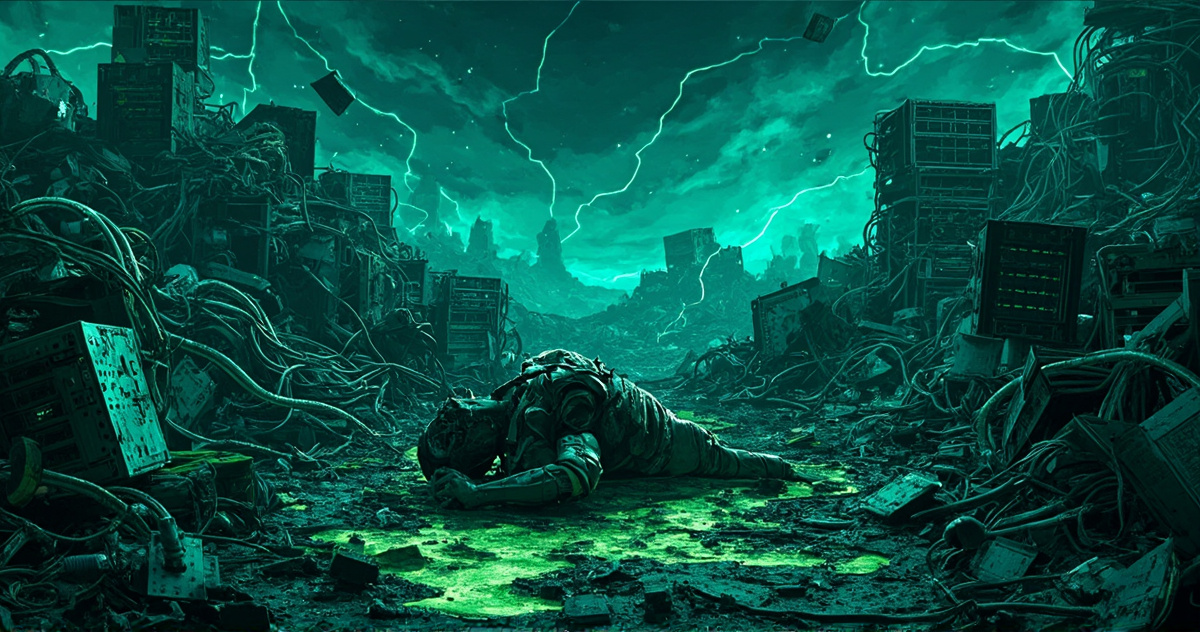
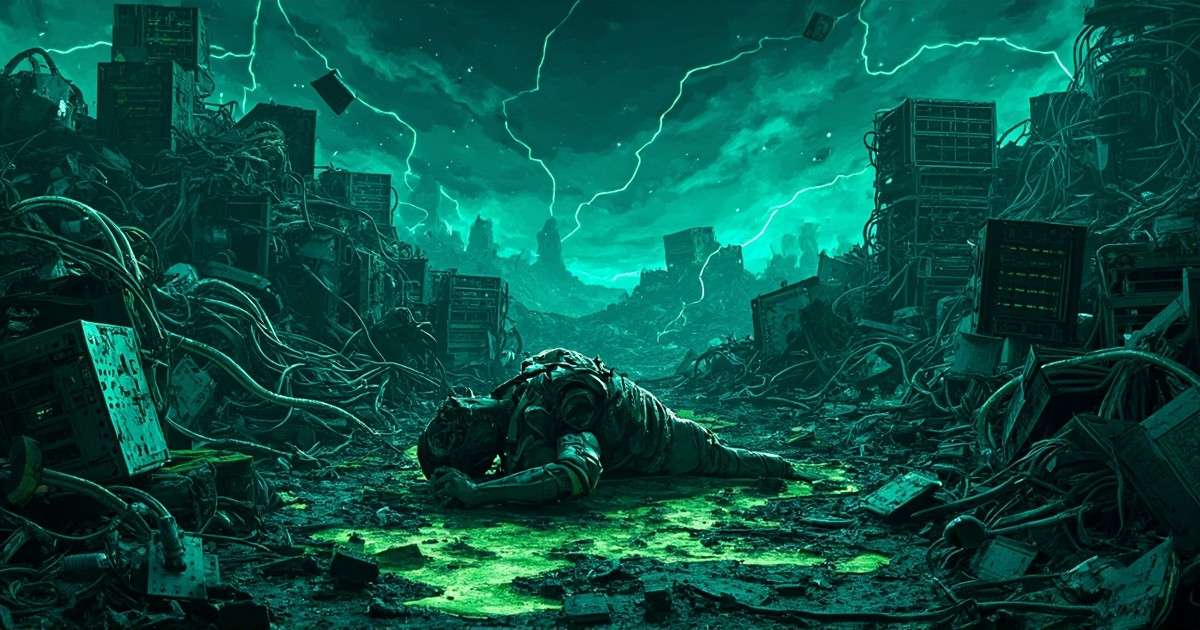
fix(seo): SERP title/desc lengths and OG 1200×630
- Lengthen site/about/standards meta across 7 locales (CJK padded to ~50/120+)
- Crop default OG illustration to exactly 1200×630; fix og:image:height

diff --git a/src/i18n/ui.ts b/src/i18n/ui.ts
@@ -52,9 +52,9 @@ export type UiKey =
 
 const en: Record<UiKey, string> = {
 	siteTitle: 'Slop Watch',
-	siteTagline: 'AI Slop, catalogued with receipts.',
+	siteTagline: 'AI Slop catalog with receipts for incidents and CVEs',
 	siteDescription:
-		'Public landfill of AI products that ship hard, break harder, and leave CVEs, issue swamps, and vibe-coded wreckage. Named. Linked. Documented.',
+		'Public landfill of AI products that ship hard, break harder, and leave CVEs, open-issue swamps, and vibe-coded wreckage. Named specimens with links, reasons, and public receipts.',
 	navCatalog: 'Catalog',
 	navAbout: 'About',
 	navStandards: 'Standards',
@@ -66,9 +66,9 @@ const en: Record<UiKey, string> = {
 	openPrimaryLink: 'Open primary link ↗',
 	whyListed: 'Why it made the list',
 	referencesHeading: 'References ({n})',
-	aboutTitle: 'About · Slop Watch',
+	aboutTitle: 'About Slop Watch: the AI Slop catalog with receipts',
 	aboutMetaDescription:
-		'What Slop Watch is, and why “slop” here means quality trash with receipts — not a promo reel.',
+		'What Slop Watch is and why “slop” here means quality trash with public receipts — not a promo reel or endorsement archive for AI products.',
 	aboutP1:
 		'Slop Watch is a public landfill catalog of <strong>AI Slop</strong> — products and stacks where quality collapsed: authors cannot stand behind the code, upgrades break for sport, and production incidents / CVEs keep the lights interesting. We name the specimens so the pattern is visible, not just the vibes.',
 	aboutP2:
@@ -78,9 +78,9 @@ const en: Record<UiKey, string> = {
 	aboutP4:
 		'We curate for evidence, not hype. If the public trail of breakage, security debt, or unowned quality is thin, it does not belong here.',
 	aboutStandardsLink: 'Read our inclusion standards →',
-	standardsTitle: 'Inclusion standards · Slop Watch',
+	standardsTitle: 'Inclusion standards · How Slop Watch picks AI Slop',
 	standardsMetaDescription:
-		'How Slop Watch chooses specimens: public evidence of quality collapse, not hype or endorsement.',
+		'How Slop Watch chooses AI Slop specimens: public evidence of quality collapse, incidents, and security debt — not hype, stars, or endorsement.',
 	standardsH1: 'Inclusion standards',
 	standardsP1:
 		'We list <strong>AI Slop</strong> — products or stacks where quality is unowned: constant breaking, production incidents, security debt, or marketing that outruns a verifiable engineering bar.',
@@ -91,7 +91,7 @@ const en: Record<UiKey, string> = {
 	standardsP4:
 		'Facts stay frozen (links, issue/CVE IDs, measured counts). Tone may be sharp; evidence must still stand. If the public trail is thin, it does not belong here.',
 	footer: '© {year} Slop Watch. Catalog of AI Slop.',
-	specimenTitle: '{name} · AI Slop specimen · Slop Watch',
+	specimenTitle: '{name} · AI Slop specimen on the Slop Watch catalog',
 	language: 'Language',
 	hardSignals: 'Hard signals',
 	bodyFallbackNote: 'Body text below is shown in English until a full translation is available.',
@@ -115,9 +115,9 @@ const en: Record<UiKey, string> = {
 
 const zh: Record<UiKey, string> = {
 	siteTitle: 'Slop Watch',
-	siteTagline: 'AI 垃圾档案，带收据。',
+	siteTagline: 'AI 垃圾档案：质量崩坏、线上事故与 CVE，件件附带公开可核验收据。',
 	siteDescription:
-		'公开的 AI 产品垃圾填埋场：猛推上线、猛烈崩溃，留下 CVE、issue 堰塞湖与 vibe coding 残骸。有名有链接有文档。',
+		'公开的 AI 产品垃圾填埋场：猛推上线、猛烈崩溃，留下 CVE、issue 堰塞湖与 vibe coding 残骸。我们为每件标本保留名称、主链接、入选理由，以及可核验的公开参考资料，方便读者对照证据、看清质量失控与事故连发的模式，而不是只看宣传口径。',
 	navCatalog: '目录',
 	navAbout: '关于',
 	navStandards: '收录标准',
@@ -128,8 +128,9 @@ const zh: Record<UiKey, string> = {
 	openPrimaryLink: '打开主链接 ↗',
 	whyListed: '为何上榜',
 	referencesHeading: '参考资料（{n}）',
-	aboutTitle: '关于 · Slop Watch',
-	aboutMetaDescription: 'Slop Watch 是什么，以及这里的 slop 为何是「有证据的质量垃圾」而不是安利合集。',
+	aboutTitle: '关于 · Slop Watch 公开档案：AI 垃圾标本、质量崩坏、线上事故与收录背景的完整说明',
+	aboutMetaDescription:
+		'说明 《Slop Watch》是什么，以及这里的 slop 为何是「有证据的质量垃圾」：聚焦质量崩坏、线上事故与 CVE，用公开收据说明问题，帮助读者对照证据、看清质量失控与事故连发的模式，而不是安利合集、星标冲榜、病毒传播话术或软性展示。',
 	aboutP1:
 		'Slop Watch 是公开的 <strong>AI 垃圾</strong> 档案：代码质量崩盘、作者兜不住、升级即 breaking、线上事故 / CVE 不断的产品。我们给标本命名，让模式可见，而不只是情绪。',
 	aboutP2:
@@ -139,8 +140,9 @@ const zh: Record<UiKey, string> = {
 	aboutP4:
 		'我们按证据收录，不按热度。若公开可核验的崩坏、安全债或质量失控痕迹太薄，这里就不收。',
 	aboutStandardsLink: '阅读收录标准 →',
-	standardsTitle: '收录标准 · Slop Watch',
-	standardsMetaDescription: 'Slop Watch 如何选标本：公开可核验的质量崩坏证据，而不是热度或安利。',
+	standardsTitle: '收录标准 · 公开档案 Slop Watch 如何挑选 AI 垃圾标本及所需公开可核验证据的条件',
+	standardsMetaDescription:
+		'说明 《Slop Watch》如何选择 AI 垃圾标本：只看公开可核验的质量崩坏、线上事故与安全债证据，而不是热度、星标数量、病毒传播数据或安利式宣传内容的简单堆砌；公开痕迹太薄、无法核验的条目不会进入本目录的收录范围，读者可据此判断标准。',
 	standardsH1: '收录标准',
 	standardsP1:
 		'我们刊登 <strong>AI Slop</strong>——质量无人兜底的产品或栈：持续 breaking、线上事故、安全债，或营销远远压过可核验的工程水准。',
@@ -151,7 +153,7 @@ const zh: Record<UiKey, string> = {
 	standardsP4:
 		'事实字段冻结（链接、issue/CVE 编号、可计量数字）。语气可以毒，证据必须站得住。公开痕迹太薄，这里就不收。',
 	footer: '© {year} Slop Watch. AI 垃圾目录。',
-	specimenTitle: '{name} · AI 垃圾标本 · Slop Watch',
+	specimenTitle: '{name} · AI 垃圾标本条目 · 收录于 Slop Watch 公开档案',
 	language: '语言',
 	hardSignals: '硬信号',
 	bodyFallbackNote: '正文暂以英文显示，完整翻译后续补充。',
@@ -175,9 +177,9 @@ const zh: Record<UiKey, string> = {
 
 const de: Record<UiKey, string> = {
 	siteTitle: 'Slop Watch',
-	siteTagline: 'AI-Schrott, katalogisiert mit Belegen.',
+	siteTagline: 'AI-Schrott mit Belegen zu Kollaps, Incidents und CVEs',
 	siteDescription:
-		'Die öffentliche Müllhalde für KI-Produkte, die hart shippen, härter brechen und CVEs, Issue-Sümpfe und vibe-codierte Trümmer hinterlassen. Benannt. Verlinkt. Dokumentiert.',
+		'Die öffentliche Müllhalde für KI-Produkte, die hart shippen, härter brechen und CVEs, Issue-Sümpfe und vibe-codierte Trümmer hinterlassen. Benannte Exemplare mit Links, Gründen und öffentlichen Belegen.',
 	navCatalog: 'Katalog',
 	navAbout: 'Über uns',
 	navStandards: 'Standards',
@@ -189,9 +191,9 @@ const de: Record<UiKey, string> = {
 	openPrimaryLink: 'Primärlink öffnen ↗',
 	whyListed: 'Warum es auf der Liste steht',
 	referencesHeading: 'Referenzen ({n})',
-	aboutTitle: 'Über · Slop Watch',
+	aboutTitle: 'Über Slop Watch — AI-Schrott-Katalog mit Belegen',
 	aboutMetaDescription:
-		'Was Slop Watch ist und warum „slop“ hier Qualitätsmüll mit Belegen meint — keine Werberolle.',
+		'Was Slop Watch ist und warum „slop“ hier Qualitätsmüll mit öffentlichen Belegen meint — keine Werberolle und kein Endorsement-Archiv für KI-Produkte.',
 	aboutP1:
 		'Slop Watch ist ein öffentlicher Müllkatalog von <strong>AI Slop</strong> — Produkte, bei denen Qualität kollabiert: Autoren stehen nicht hinter dem Code, Upgrades brechen absichtlich, Incidents/CVEs bleiben spannend. Wir benennen Exemplare, damit das Muster sichtbar wird.',
 	aboutP2:
@@ -201,9 +203,9 @@ const de: Record<UiKey, string> = {
 	aboutP4:
 		'Wir kuratieren nach Belegen, nicht nach Hype. Fehlt die öffentliche Spur von Bruch, Security-Schuld oder herrenloser Qualität, gehört es nicht hierher.',
 	aboutStandardsLink: 'Aufnahmekriterien lesen →',
-	standardsTitle: 'Aufnahmekriterien · Slop Watch',
+	standardsTitle: 'Aufnahmekriterien · Wie Slop Watch AI-Slop wählt',
 	standardsMetaDescription:
-		'Wie Slop Watch Exemplare wählt: öffentliche Belege für Qualitätskollaps — kein Hype, keine Werbung.',
+		'Wie Slop Watch AI-Slop-Exemplare wählt: öffentliche Belege für Qualitätskollaps, Incidents und Security-Schuld — kein Hype, Sterne oder Werbung.',
 	standardsH1: 'Aufnahmekriterien',
 	standardsP1:
 		'Wir listen <strong>AI Slop</strong> — Produkte oder Stacks ohne Ownership von Qualität: Dauer-Breaking, Produktionsvorfälle, Security-Schuld oder Marketing über der belegbaren Engineering-Latte.',
@@ -214,7 +216,7 @@ const de: Record<UiKey, string> = {
 	standardsP4:
 		'Fakten bleiben eingefroren (Links, Issue/CVE-IDs, messbare Zahlen). Ton darf scharf sein; Belege müssen stehen. Dünne öffentliche Spur? Gehört nicht hierher.',
 	footer: '© {year} Slop Watch. Katalog von AI Slop.',
-	specimenTitle: '{name} · AI-Slop-Exemplar · Slop Watch',
+	specimenTitle: '{name} · AI-Slop-Exemplar im Slop Watch Katalog',
 	language: 'Sprache',
 	hardSignals: 'Harte Signale',
 	bodyFallbackNote: 'Der Fließtext unten ist vorerst auf Englisch, bis eine volle Übersetzung vorliegt.',
@@ -238,9 +240,9 @@ const de: Record<UiKey, string> = {
 
 const it: Record<UiKey, string> = {
 	siteTitle: 'Slop Watch',
-	siteTagline: 'AI Slop, catalogato con prove.',
+	siteTagline: 'AI Slop con prove: collasso di qualità, incidenti e CVE',
 	siteDescription:
-		'La discarica pubblica di prodotti AI che spediscono forte, si rompono più forte e lasciano CVE, paludi di issue e rottami vibe-coded. Nominati. Collegati. Documentati.',
+		'La discarica pubblica di prodotti AI che spediscono forte, si rompono più forte e lasciano CVE, paludi di issue e rottami vibe-coded. Esemplari nominati con link, motivi e ricevute pubbliche.',
 	navCatalog: 'Catalogo',
 	navAbout: 'Info',
 	navStandards: 'Criteri',
@@ -252,9 +254,9 @@ const it: Record<UiKey, string> = {
 	openPrimaryLink: 'Apri link principale ↗',
 	whyListed: 'Perché è in lista',
 	referencesHeading: 'Riferimenti ({n})',
-	aboutTitle: 'Info · Slop Watch',
+	aboutTitle: 'Info su Slop Watch — catalogo di AI Slop con prove pubbliche',
 	aboutMetaDescription:
-		'Cos’è Slop Watch e perché qui “slop” significa spazzatura di qualità con prove — non un reel promo.',
+		'Cos’è Slop Watch e perché qui “slop” significa spazzatura di qualità con prove pubbliche — non un reel promo né un archivio di endorsement.',
 	aboutP1:
 		'Slop Watch è un catalogo-discarica pubblica di <strong>AI Slop</strong>: prodotti dove la qualità è collassata, breaking continui, incidenti e CVE. Nominiamo gli esemplari perché il pattern sia visibile.',
 	aboutP2:
@@ -264,9 +266,9 @@ const it: Record<UiKey, string> = {
 	aboutP4:
 		'Curiamo per evidenza, non per hype. Se la scia pubblica di rotture, debito di sicurezza o qualità senza ownership è sottile, non entra qui.',
 	aboutStandardsLink: 'Leggi i criteri di inclusione →',
-	standardsTitle: 'Criteri di inclusione · Slop Watch',
+	standardsTitle: 'Criteri di inclusione · Come Slop Watch sceglie lo slop',
 	standardsMetaDescription:
-		'Come Slop Watch sceglie gli esemplari: prove pubbliche di collasso di qualità, non hype o endorsement.',
+		'Come Slop Watch sceglie gli esemplari di AI Slop: prove pubbliche di collasso di qualità, incidenti e debito di sicurezza — non hype, stelle o endorsement.',
 	standardsH1: 'Criteri di inclusione',
 	standardsP1:
 		'Elenciamo <strong>AI Slop</strong> — prodotti o stack senza ownership della qualità: breaking continui, incidenti, debito di sicurezza o marketing oltre il listone ingegneristico verificabile.',
@@ -277,7 +279,7 @@ const it: Record<UiKey, string> = {
 	standardsP4:
 		'I fatti restano congelati (link, ID issue/CVE, conteggi misurabili). Il tono può essere tagliente; le prove devono reggere. Scia pubblica sottile? Non entra.',
 	footer: '© {year} Slop Watch. Catalogo di AI Slop.',
-	specimenTitle: '{name} · esemplare AI Slop · Slop Watch',
+	specimenTitle: '{name} · esemplare AI Slop nel catalogo Slop Watch',
 	language: 'Lingua',
 	hardSignals: 'Segnali duri',
 	bodyFallbackNote: 'Il corpo del testo sotto è in inglese finché non c’è una traduzione completa.',
@@ -301,9 +303,9 @@ const it: Record<UiKey, string> = {
 
 const ja: Record<UiKey, string> = {
 	siteTitle: 'Slop Watch',
-	siteTagline: 'AIスロップを証拠付きでカタログ化。',
+	siteTagline: 'AIスロップを証拠付きでカタログ化。品質崩壊・事故・CVE を公開の領収書つきで残す標本集。',
 	siteDescription:
-		'強硬に出荷し、より強硬に壊れ、CVE・issue沼・バイブコーディングの残骸を残すAI製品の公開埋め立て地。名前付き。リンク付き。文書化。',
+		'強硬に出荷し、より強硬に壊れ、CVE・issue沼・バイブコーディングの残骸を残すAI製品の公開埋め立て地です。各標本に名前・主リンク・選定理由と、公開で追える領収書を残し、品質が崩れたパターンや事故の連なりを読める形でカタログ化します。',
 	navCatalog: 'カタログ',
 	navAbout: '概要',
 	navStandards: '掲載基準',
@@ -315,9 +317,9 @@ const ja: Record<UiKey, string> = {
 	openPrimaryLink: '主リンクを開く ↗',
 	whyListed: '掲載理由',
 	referencesHeading: '参考文献（{n}）',
-	aboutTitle: '概要 · Slop Watch',
+	aboutTitle: '概要 · 証拠付きで AI スロップを残す公開カタログ「Slop Watch」の案内と読み方の説明',
 	aboutMetaDescription:
-		'Slop Watchとは何か、ここでいうslopが宣伝ではなく証拠付きの品質ゴミである理由。',
+		'Slop Watchとは何か。ここでいうslopが宣伝や推薦ではなく、品質崩壊・本番事故・CVE の公開証拠を伴う品質ゴミである理由を、読者向けに背景・見分け方・掲載の考え方までわかりやすく説明し、証拠の読み方と注意点まで丁寧に案内します。',
 	aboutP1:
 		'Slop Watchは<strong>AIスロップ</strong>の公開カタログです。品質崩壊、作者が品質を担保できない、breaking、本番事故/CVE。パターンを可視化するために標本に名前を付けます。',
 	aboutP2:
@@ -327,9 +329,9 @@ const ja: Record<UiKey, string> = {
 	aboutP4:
 		'熱量ではなく証拠で選びます。公開で追える破綻・セキュリティ負債・品質の放置が薄いなら、ここには載せません。',
 	aboutStandardsLink: '掲載基準を読む →',
-	standardsTitle: '掲載基準 · Slop Watch',
+	standardsTitle: '掲載基準 · 公開カタログ「Slop Watch」が AI スロップ標本を選ぶ方法と証拠条件の説明',
 	standardsMetaDescription:
-		'Slop Watchが標本を選ぶ方法：品質崩壊の公開証拠であり、熱量や宣伝ではない。',
+		'Slop WatchがAIスロップ標本を選ぶ基準を説明します。品質崩壊・事故・セキュリティ負債の公開証拠に限定し、熱量・star 数・バズ・宣伝だけでは掲載しません。公開で追える証拠が薄いものや検証できない項目は、このカタログには載せません。',
 	standardsH1: '掲載基準',
 	standardsP1:
 		'<strong>AIスロップ</strong>を掲載します——品質の所有がない製品やスタック：継続的な breaking、本番事故、セキュリティ負債、検証可能な工学水準を超えるマーケ。',
@@ -340,7 +342,7 @@ const ja: Record<UiKey, string> = {
 	standardsP4:
 		'事実は凍結（リンク、issue/CVE 番号、測れる数字）。トーンは鋭くてよいが証拠は立つこと。公開の痕跡が薄いなら載せない。',
 	footer: '© {year} Slop Watch. AIスロップのカタログ。',
-	specimenTitle: '{name} · AIスロップ標本 · Slop Watch',
+	specimenTitle: '{name} · AIスロップ標本 · Slop Watch カタログ',
 	language: '言語',
 	hardSignals: 'ハードシグナル',
 	bodyFallbackNote: '本文は完全翻訳まで英語で表示します。',
@@ -364,9 +366,9 @@ const ja: Record<UiKey, string> = {
 
 const ko: Record<UiKey, string> = {
 	siteTitle: 'Slop Watch',
-	siteTagline: 'AI 슬롭, 증거와 함께 목록화.',
+	siteTagline: 'AI 슬롭 목록 — 품질 붕괴·사고·CVE를 공개 증거와 함께 기록',
 	siteDescription:
-		'세게 출시하고 더 세게 부서지며 CVE, 이슈 늪, 바이브 코딩 잔해를 남기는 AI 제품의 공개 매립지. 이름. 링크. 문서.',
+		'세게 출시하고 더 세게 부서지며 CVE, 이슈 늪, 바이브 코딩 잔해를 남기는 AI 제품의 공개 매립지입니다. 각 표본에 이름·주 링크·선정 이유와 공개로 따라갈 수 있는 영수증을 남겨, 품질 붕괴와 사고 연발 패턴을 읽을 수 있게 정리합니다.',
 	navCatalog: '목록',
 	navAbout: '소개',
 	navStandards: '수록 기준',
@@ -377,9 +379,9 @@ const ko: Record<UiKey, string> = {
 	openPrimaryLink: '주 링크 열기 ↗',
 	whyListed: '왜 올랐는가',
 	referencesHeading: '참고 자료 ({n})',
-	aboutTitle: '소개 · Slop Watch',
+	aboutTitle: '소개 · Slop Watch: 공개 증거가 있는 AI 슬롭 아카이브 카탈로그 안내 페이지',
 	aboutMetaDescription:
-		'Slop Watch가 무엇인지, 여기서 slop이 홍보가 아닌 증거 있는 품질 쓰레기인 이유.',
+		'Slop Watch가 무엇인지, 그리고 여기서 slop이 홍보나 추천이 아니라 품질 붕괴·사고·CVE의 공개 증거를 갖춘 품질 쓰레기인 이유를 독자 입장에서 배경과 구분 방법, 수록 관점까지 함께 자세히 설명합니다.',
 	aboutP1:
 		'Slop Watch는 품질이 무너진 <strong>AI 슬롭</strong> 공개 목록입니다. 작성자가 코드를 감당하지 못하고, 업그레이드가 깨지며, 사고/CVE가 이어집니다. 패턴을 보이게 이름을 붙입니다.',
 	aboutP2:
@@ -389,9 +391,9 @@ const ko: Record<UiKey, string> = {
 	aboutP4:
 		'유행이 아니라 증거로 고릅니다. 공개적으로 따라갈 수 있는 붕괴·보안 부채·방치된 품질의 흔적이 얇으면 여기 올리지 않습니다.',
 	aboutStandardsLink: '수록 기준 읽기 →',
-	standardsTitle: '수록 기준 · Slop Watch',
+	standardsTitle: '수록 기준 · Slop Watch가 AI 슬롭 표본을 고르는 방법과 필요한 공개 증거 조건',
 	standardsMetaDescription:
-		'Slop Watch가 표본을 고르는 방식: 품질 붕괴의 공개 증거이지 유행이나 홍보가 아님.',
+		'Slop Watch가 AI 슬롭 표본을 고르는 기준을 정리합니다. 품질 붕괴·사고·보안 부채의 공개 증거만 인정하며, 유행·스타 수·바이럴 홍보만으로는 수록하지 않고, 공개로 따라갈 증거가 얇거나 검증이 안 되면 목록에 올리지 않습니다.',
 	standardsH1: '수록 기준',
 	standardsP1:
 		'<strong>AI 슬롭</strong>을 싣습니다—품질을 책임질 주인이 없는 제품/스택: 계속되는 breaking, 프로덕션 사고, 보안 부채, 검증 가능한 엔지니어링 기준을 넘는 마케팅.',
@@ -402,7 +404,7 @@ const ko: Record<UiKey, string> = {
 	standardsP4:
 		'사실은 고정(링크, issue/CVE 번호, 측정 가능한 숫자). 톤은 날카로워도 증거는 서야 합니다. 공개 흔적이 얇으면 여기 없습니다.',
 	footer: '© {year} Slop Watch. AI 슬롭 목록.',
-	specimenTitle: '{name} · AI 슬롭 표본 · Slop Watch',
+	specimenTitle: '{name} · AI 슬롭 표본 · Slop Watch 목록',
 	language: '언어',
 	hardSignals: '하드 시그널',
 	bodyFallbackNote: '본문은 전체 번역 전까지 영어로 표시됩니다.',
@@ -426,9 +428,9 @@ const ko: Record<UiKey, string> = {
 
 const es: Record<UiKey, string> = {
 	siteTitle: 'Slop Watch',
-	siteTagline: 'AI Slop, catalogado con pruebas.',
+	siteTagline: 'AI Slop con pruebas: colapso de calidad, incidentes y CVE',
 	siteDescription:
-		'El vertedero público de productos de IA que lanzan fuerte, se rompen más fuerte y dejan CVE, pantanos de issues y restos vibe-coded. Nombrados. Enlazados. Documentados.',
+		'El vertedero público de productos de IA que lanzan fuerte, se rompen más fuerte y dejan CVE, pantanos de issues y restos vibe-coded. Ejemplares con nombre, enlace, motivo y recibos públicos.',
 	navCatalog: 'Catálogo',
 	navAbout: 'Acerca de',
 	navStandards: 'Criterios',
@@ -440,9 +442,9 @@ const es: Record<UiKey, string> = {
 	openPrimaryLink: 'Abrir enlace principal ↗',
 	whyListed: 'Por qué está en la lista',
 	referencesHeading: 'Referencias ({n})',
-	aboutTitle: 'Acerca de · Slop Watch',
+	aboutTitle: 'Acerca de Slop Watch — catálogo de AI Slop con pruebas',
 	aboutMetaDescription:
-		'Qué es Slop Watch y por qué aquí “slop” significa basura de calidad con pruebas — no un reel promocional.',
+		'Qué es Slop Watch y por qué aquí “slop” significa basura de calidad con pruebas públicas — no un reel promocional ni un archivo de endorsements.',
 	aboutP1:
 		'Slop Watch es un catálogo-vertedero público de <strong>AI Slop</strong>: productos donde la calidad colapsó, breaking constantes, incidentes y CVE. Nombramos ejemplares para que el patrón sea visible.',
 	aboutP2:
@@ -452,9 +454,9 @@ const es: Record<UiKey, string> = {
 	aboutP4:
 		'Curamos por evidencia, no por hype. Si el rastro público de roturas, deuda de seguridad o calidad sin dueño es fino, no entra aquí.',
 	aboutStandardsLink: 'Leer criterios de inclusión →',
-	standardsTitle: 'Criterios de inclusión · Slop Watch',
+	standardsTitle: 'Criterios de inclusión · Cómo Slop Watch elige el slop',
 	standardsMetaDescription:
-		'Cómo Slop Watch elige especímenes: evidencia pública de colapso de calidad, no hype ni endorsement.',
+		'Cómo Slop Watch elige especímenes de AI Slop: evidencia pública de colapso de calidad, incidentes y deuda de seguridad — no hype, estrellas ni endorsement.',
 	standardsH1: 'Criterios de inclusión',
 	standardsP1:
 		'Listamos <strong>AI Slop</strong> — productos o stacks sin dueño de la calidad: breaking constante, incidentes, deuda de seguridad o marketing por encima de un listón de ingeniería verificable.',
@@ -465,7 +467,7 @@ const es: Record<UiKey, string> = {
 	standardsP4:
 		'Los hechos se congelan (enlaces, IDs de issue/CVE, conteos medibles). El tono puede ser afilado; la evidencia debe sostenerse. ¿Rastro público fino? No entra.',
 	footer: '© {year} Slop Watch. Catálogo de AI Slop.',
-	specimenTitle: '{name} · ejemplar AI Slop · Slop Watch',
+	specimenTitle: '{name} · ejemplar AI Slop en el catálogo Slop Watch',
 	language: 'Idioma',
 	hardSignals: 'Señales duras',
 	bodyFallbackNote: 'El cuerpo del texto se muestra en inglés hasta que haya traducción completa.',
